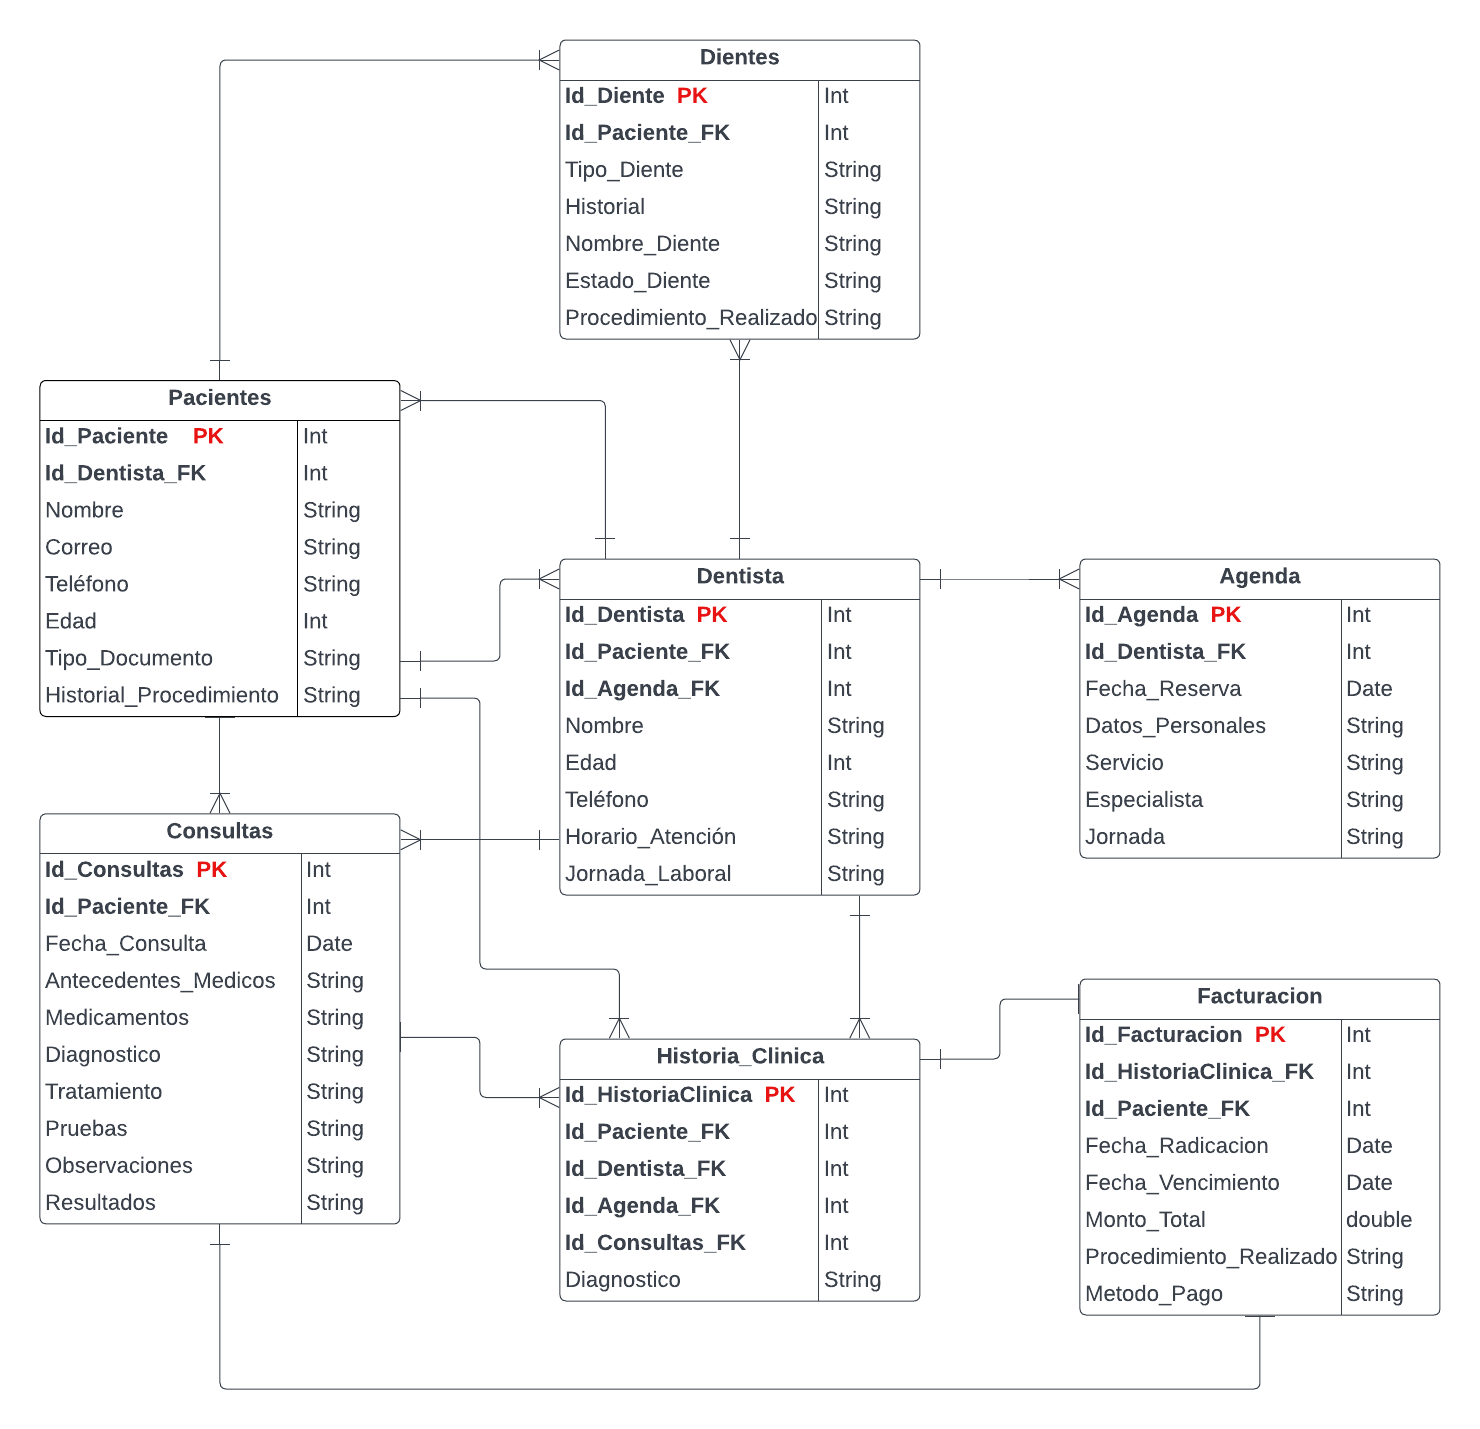
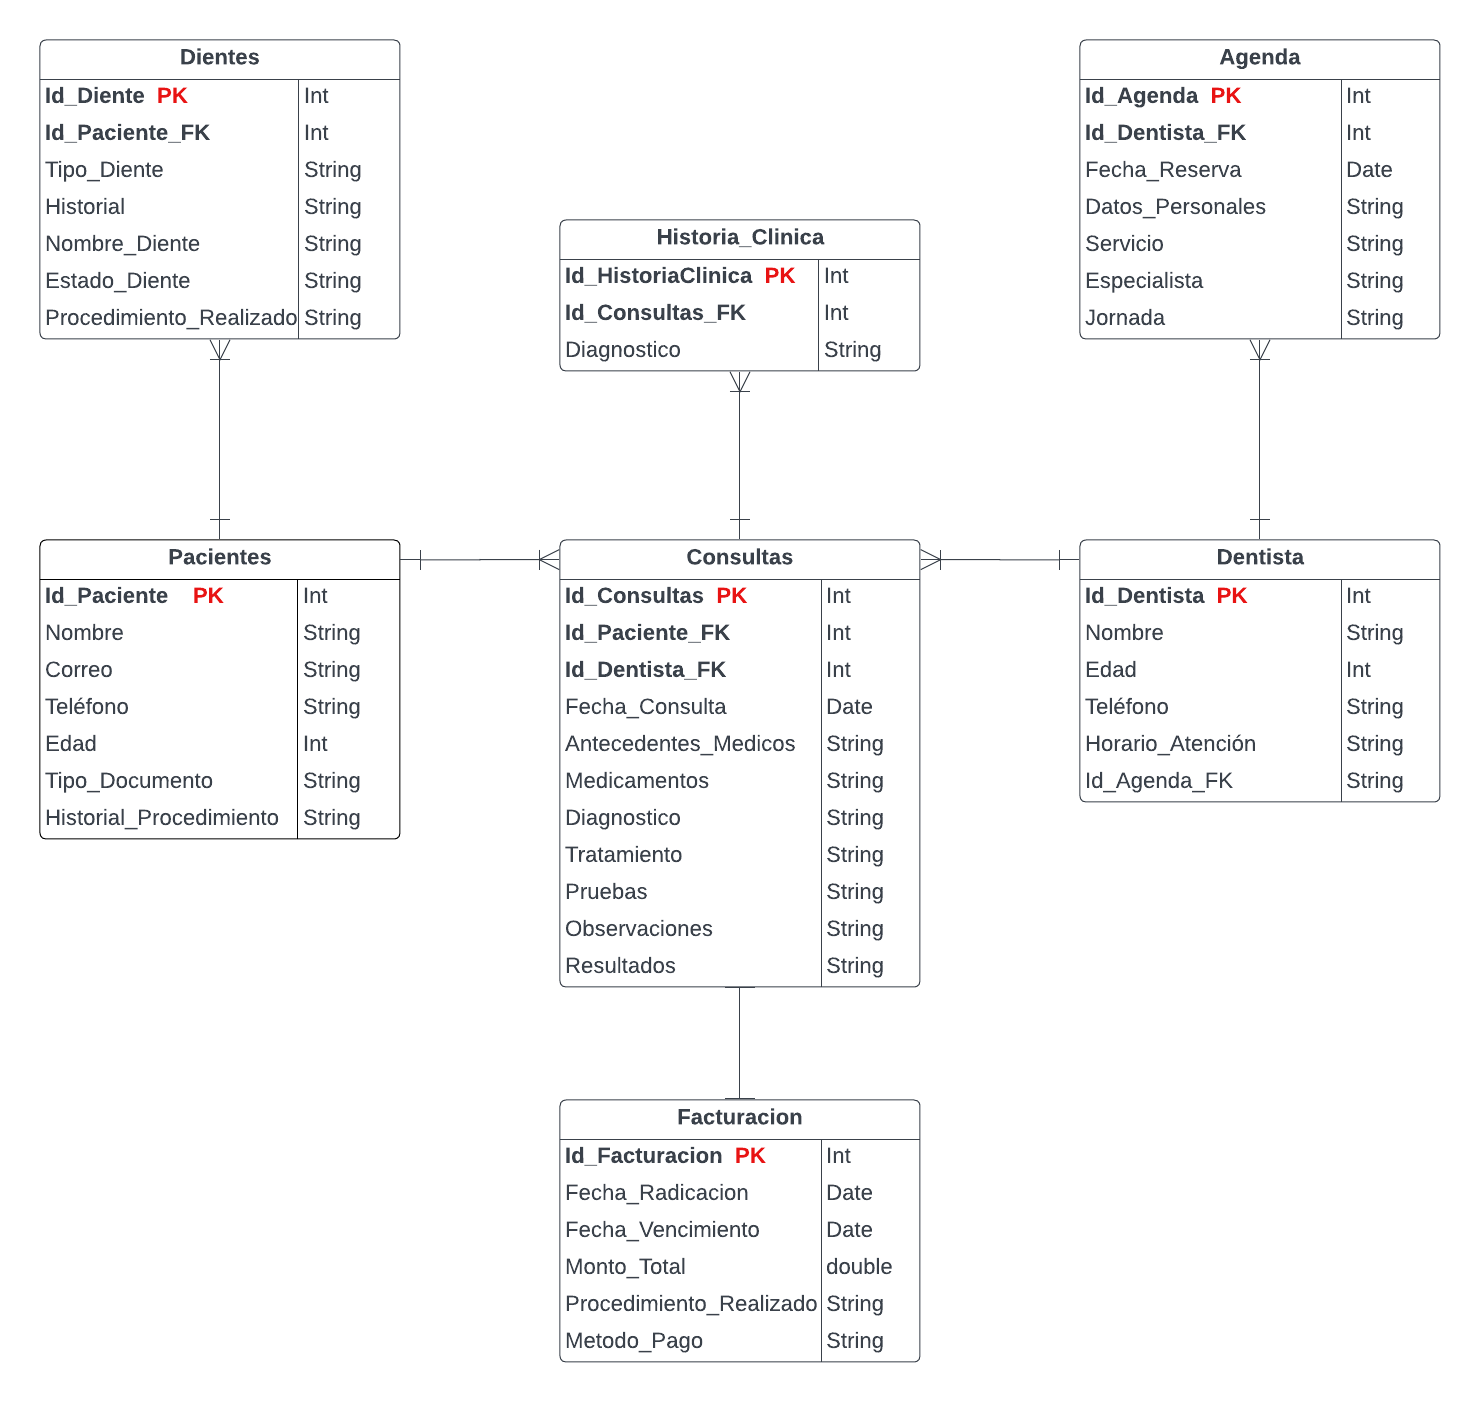
Creacion BDD - falta relacion de Odontograma con facturacion

diff --git a/app.py b/app.py
@@ -1,28 +1,34 @@
 from flask import Flask, request, session, json, jsonify, render_template, redirect
 
 from config.bd import bd, ma, app
-from model.Agenda import Agenda, Agenda_Schema
-from model.Consultas import Consultas, Consultas_Schema
-from model.Dentista import Dentista, Dentista_Schema
-from model.Dientes import Dientes, Dientes_Schema
-from model.Facturacion import Facturacion, Facturacion_Schema
-from model.HistoriaClinica import Historia_Clinica, HistoriaC_Schema
-from model.Pacientes import Pacientes, Pacientes_Schema
 
-agenda_schema = Agenda_Schema()
-agendas_schema = Agenda_Schema(many=True)
-consulta_schema = Consultas_Schema()
-consultas_schema = Consultas_Schema(many=True)
-dentista_schema = Dentista_Schema()
-dentistas_schema = Dentista_Schema(many=True)
-diente_schema = Dientes_Schema()
-dientes_Schema = Dientes_Schema(many=True)
-facturacion_schema = Facturacion_Schema()
-facturaciones_schema = Facturacion_Schema(many=True)
-hc_schema = HistoriaC_Schema()
-hcs_schema = HistoriaC_Schema(many=True)
+# ------------------------------------------------------------------------------
+from model.Pacientes import Pacientes, Pacientes_Schema
+from model.Facturacion import Facturacion, Facturacion_Schema
+from model.Dentista import Dentista, Dentista_Schema
+
+# ------------------------------------------------------------------------------
+from model.Odontograma import Odontograma, Odontograma_Schema
+from model.Agenda import Agenda, Agenda_Schema
+from model.Dientes import Dientes, Dientes_Schema
+from model.HistoriaClinica import Historia_Clinica, HistoriaC_Schema
+
+# ------------------------------------------------------------------------------
 paciente_schema = Pacientes_Schema()
 pacientes_schema = Pacientes_Schema(many=True)
+facturacion_schema = Facturacion_Schema()
+facturaciones_schema = Facturacion_Schema(many=True)
+dentista_schema = Dentista_Schema()
+dentistas_schema = Dentista_Schema(many=True)
+# ------------------------------------------------------------------------------
+odontograma_schema = Odontograma_Schema()
+odontogramas_schema = Odontograma_Schema(many=True)
+agenda_schema = Agenda_Schema()
+agendas_schema = Agenda_Schema(many=True)
+diente_schema = Dientes_Schema()
+dientes_Schema = Dientes_Schema(many=True)
+hc_schema = HistoriaC_Schema()
+hcs_schema = HistoriaC_Schema(many=True)
 
 
 @app.route("/", methods=["GET"])

diff --git a/model/Odontograma.py b/model/Odontograma.py
@@ -2,11 +2,17 @@ from datetime import datetime
 from config.bd import bd, app, ma
 
 
-class Consultas(bd.Model):
-    __tablename__ = "tblConsultas"
+class Odontograma(bd.Model):
+    __tablename__ = "tblOdontograma"
 
-    Id_Consultas = bd.Column(bd.Integer, primary_key=True, unique=True, nullable=False)
+    Id_Odontograma = bd.Column(
+        bd.Integer, primary_key=True, unique=True, nullable=False
+    )
     Id_Paciente_fk = bd.Column(bd.Integer, bd.ForeignKey("tblPacientes.Id_Paciente"))
+    Id_Dentista_fk = bd.Column(bd.Integer, bd.ForeignKey("tblDentista.Id_Dentista"))
+    Id_Facturacion_fk = bd.Column(
+        bd.Integer, bd.ForeignKey("tblFacturacion.Id_Facturacion")
+    )
     Fecha_Consulta = bd.Column(bd.DateTime)
     Antecedes_Medicos = bd.Column(bd.String(200))
     Medicamentos = bd.Column(bd.String(100))
@@ -19,6 +25,8 @@ class Consultas(bd.Model):
     def __init__(
         self,
         Id_Paciente_fk,
+        Id_Dentista_fk,
+        Id_Facturacion_fk,
         Fecha_Consulta,
         Antecedentes_Medicos,
         Medicamentos,
@@ -29,6 +37,8 @@ class Consultas(bd.Model):
         Resultados,
     ):
         self.Id_Paciente_fk = Id_Paciente_fk
+        self.Id_Dentista_fk = Id_Dentista_fk
+        self.Id_Facturacion_fk = Id_Facturacion_fk
         self.Fecha_Consulta = Fecha_Consulta
         self.Antecedes_Medicos = Antecedentes_Medicos
         self.Medicamentos = Medicamentos
@@ -44,11 +54,13 @@ with app.app_context():
 
 
 # Capturara todos los campos que quiero mostrarle al Usuario
-class Consultas_Schema(ma.Schema):
+class Odontograma_Schema(ma.Schema):
     class Meta:
         fields = (
-            "Id_Consultas",
+            "Id_Odontograma",
             "Id_Paciente_fk",
+            "Id_Dentista_fk",
+            "Id_Facturacion_fk",
             "Fecha_Consulta",
             "Antecedes_Medicos",
             "Medicamentos",

diff --git a/model/Facturacion.py b/model/Facturacion.py
@@ -8,10 +8,9 @@ class Facturacion(bd.Model):
     Id_Facturacion = bd.Column(
         bd.Integer, primary_key=True, unique=True, nullable=False
     )
-    Id_HistoriaClinica_fk = bd.Column(
-        bd.Integer, bd.ForeignKey("tblHistoria_Clinica.Id_HistoriaClinica")
-    )
-    Id_Paciente_fk = bd.Column(bd.Integer, bd.ForeignKey("tblPacientes.Id_Paciente"))
+    # Id_Odontograma_fk = bd.Column(
+    #     bd.Integer, bd.ForeignKey("tblOdontograma.Id_Odontograma")
+    # )
     Fecha_Radicacion = bd.Column(bd.DateTime)
     Fecha_Vencimiento = bd.Column(bd.DateTime)
     Monto_Total = bd.Column(bd.Double)
@@ -20,16 +19,14 @@ class Facturacion(bd.Model):
 
     def __init__(
         self,
-        Id_HistoriaClinica_fk,
-        Id_Paciente_fk,
+        # Id_Odontograma_fk,
         Fecha_Radicacion,
         Fecha_Vencimiento,
         Monto_Total,
         Procedimiento_Realizado,
         Metodo_Pago,
     ):
-        self.Id_HistoriaClinica_fk = Id_HistoriaClinica_fk
-        self.Id_Paciente_fk = Id_Paciente_fk
+        # self.Id_Odontograma_fk = Id_Odontograma_fk
         self.Fecha_Radicacion = Fecha_Radicacion
         self.Fecha_Vencimiento = Fecha_Vencimiento
         self.Monto_Total = Monto_Total
@@ -45,8 +42,7 @@ class Facturacion_Schema(ma.Schema):
     class Meta:
         fields = (
             "Id_Facturacion",
-            "Id_HistoriaClinica_fk",
-            "Id_Paciente_fk",
+            # "Id_Odontograma_fk",
             "Fecha_Radicacion",
             "Fecha_Vencimiento",
             "Monto_Total",

diff --git a/model/HistoriaClinica.py b/model/HistoriaClinica.py
@@ -8,24 +8,17 @@ class Historia_Clinica(bd.Model):
     Id_HistoriaClinica = bd.Column(
         bd.Integer, primary_key=True, unique=True, nullable=False
     )
-    Id_Paciente_fk = bd.Column(bd.Integer, bd.ForeignKey("tblPacientes.Id_Paciente"))
-    Id_Dentista_fk = bd.Column(bd.Integer, bd.ForeignKey("tblDentista.Id_Dentista"))
-    Id_Agenda_fk = bd.Column(bd.Integer, bd.ForeignKey("tblAgenda.Id_Agenda"))
-    Id_Consultas_fk = bd.Column(bd.Integer, bd.ForeignKey("tblConsultas.Id_Consultas"))
+    Id_Odontograma_fk = bd.Column(
+        bd.Integer, bd.ForeignKey("tblOdontograma.Id_Odontograma")
+    )
     Diagnostico = bd.Column(bd.String(200), unique=True, nullable=False)
 
     def __init__(
         self,
-        Id_Paciente_fk,
-        Id_Dentista_fk,
-        Id_Agenda_fk,
-        Id_Consultas_fk,
+        Id_Odontograma_fk,
         Diagnostico,
     ):
-        self.Id_Paciente_fk = Id_Paciente_fk
-        self.Id_Dentista_fk = Id_Dentista_fk
-        self.Id_Agenda_fk = Id_Agenda_fk
-        self.Id_Consultas_fk = Id_Consultas_fk
+        self.Id_Odontograma_fk = Id_Odontograma_fk
         self.Diagnostico = Diagnostico
 
 
@@ -37,9 +30,6 @@ class HistoriaC_Schema(ma.Schema):
     class Meta:
         fields = (
             "Id_HistoriaClinica",
-            "Id_Paciente_fk",
-            "Id_Dentista_fk",
-            "Id_Agenda_fk",
-            "Id_Consultas_fk",
+            "Id_Odontograma_fk",
             "Diagnostico",
         )

diff --git a/model/Dentista.py b/model/Dentista.py
@@ -6,27 +6,21 @@ class Dentista(bd.Model):
     __tablename__ = "tblDentista"
 
     Id_Dentista = bd.Column(bd.Integer, primary_key=True, unique=True, nullable=False)
-    Id_Paciente_fk = bd.Column(bd.Integer, bd.ForeignKey("tblPacientes.Id_Paciente"))
-    Id_Agenda_fk = bd.Column(bd.Integer, bd.ForeignKey("tblAgenda.Id_Agenda"))
     Nombre = bd.Column(bd.String(50), unique=True)
-    Edad = bd.Column(bd.Integer(5))
+    Edad = bd.Column(bd.Integer())
     Telefono = bd.Column(bd.String(20))
     # nos interesa el horario de atención de la cita en el momento de ahora.
-    Horario_Atencion = bd.Column(bd.DateTime, default=datetime.datetime.now)
+    Horario_Atencion = bd.Column(bd.DateTime)
     Jornada_Laboral = bd.Column(bd.String(20))
 
     def __init__(
         self,
-        Id_Paciente_fk,
-        Id_Agenda_fk,
         Nombre,
         Edad,
         Telefono,
         Horario_Atencion,
         Jornada_Laboral,
     ):
-        self.Id_Paciente_fk = Id_Paciente_fk
-        self.Id_Agenda_fk = Id_Agenda_fk
         self.Nombre = Nombre
         self.Edad = Edad
         self.Telefono = Telefono
@@ -42,8 +36,6 @@ class Dentista_Schema(ma.Schema):
     class Meta:
         fields = (
             "Id_Dentista",
-            "Id_Paciente_fk",
-            "Id_Agenda_fk",
             "Nombre",
             "Edad",
             "Telefono",

diff --git a/model/Pacientes.py b/model/Pacientes.py
@@ -9,12 +9,11 @@ class Pacientes(bd.Model):
 
     # Declaración de atributos
     Id_Paciente = bd.Column(bd.Integer, primary_key=True, unique=True, nullable=False)
-    Id_Dentista_FK = bd.Column(bd.Integer, bd.ForeignKey("tblDentista.Id_Dentista"))
     # unique = variable unica
     Nombre = bd.Column(bd.String(50), unique=True, nullable=False)
     Correo = bd.Column(bd.String(50), unique=True, nullable=False)
     Telefono = bd.Column(bd.String(50))
-    Edad = bd.Column(bd.Integer(5))
+    Edad = bd.Column(bd.Integer())
     Tipo_Documento = bd.Column(bd.String(50), unique=True, nullable=False)
     Historial_Procedimiento = bd.Column(bd.String(100))
 
